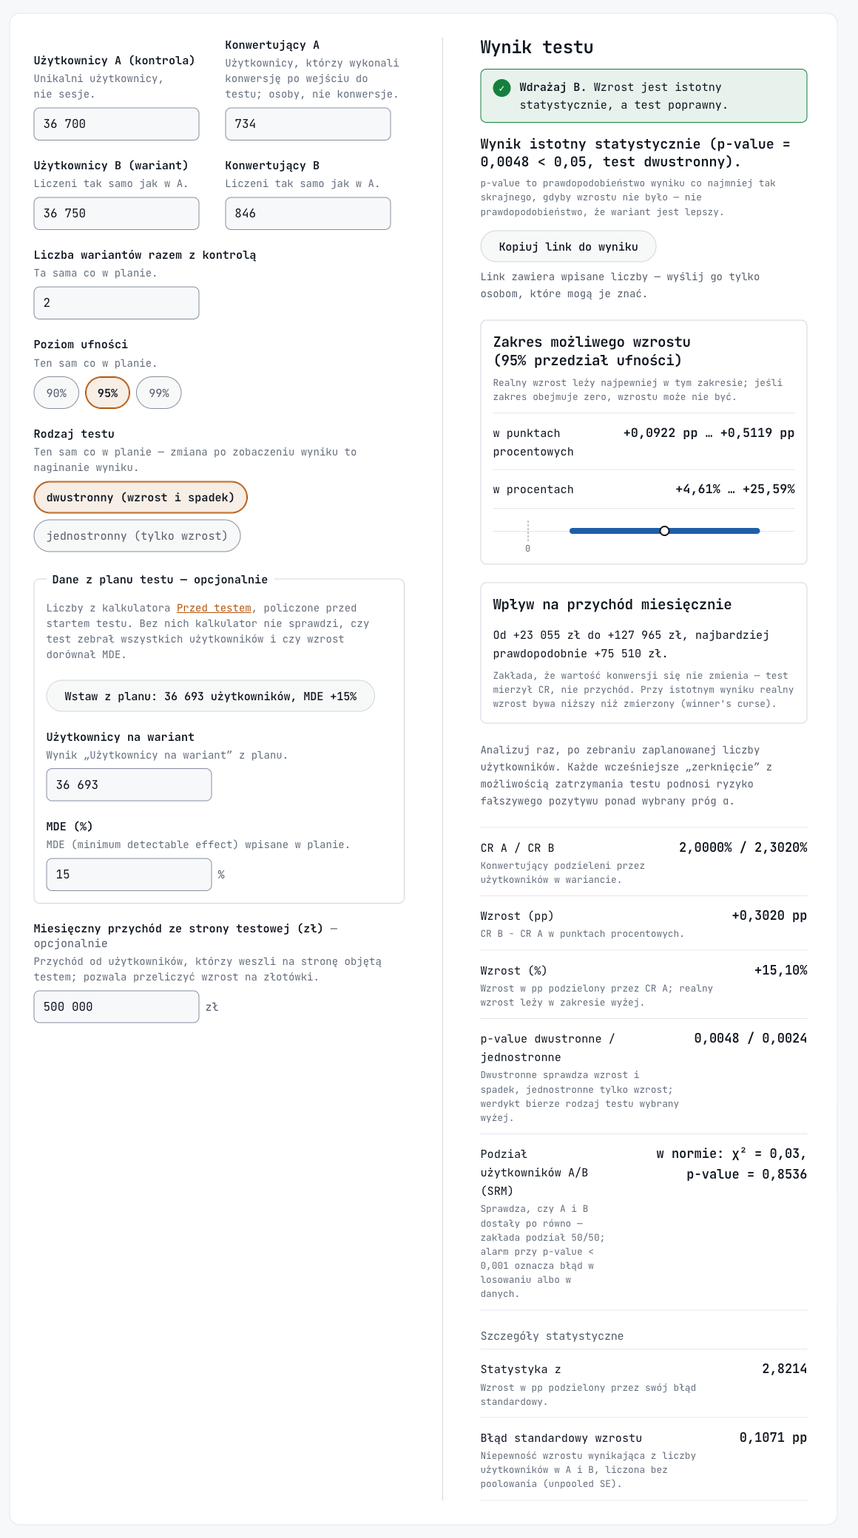
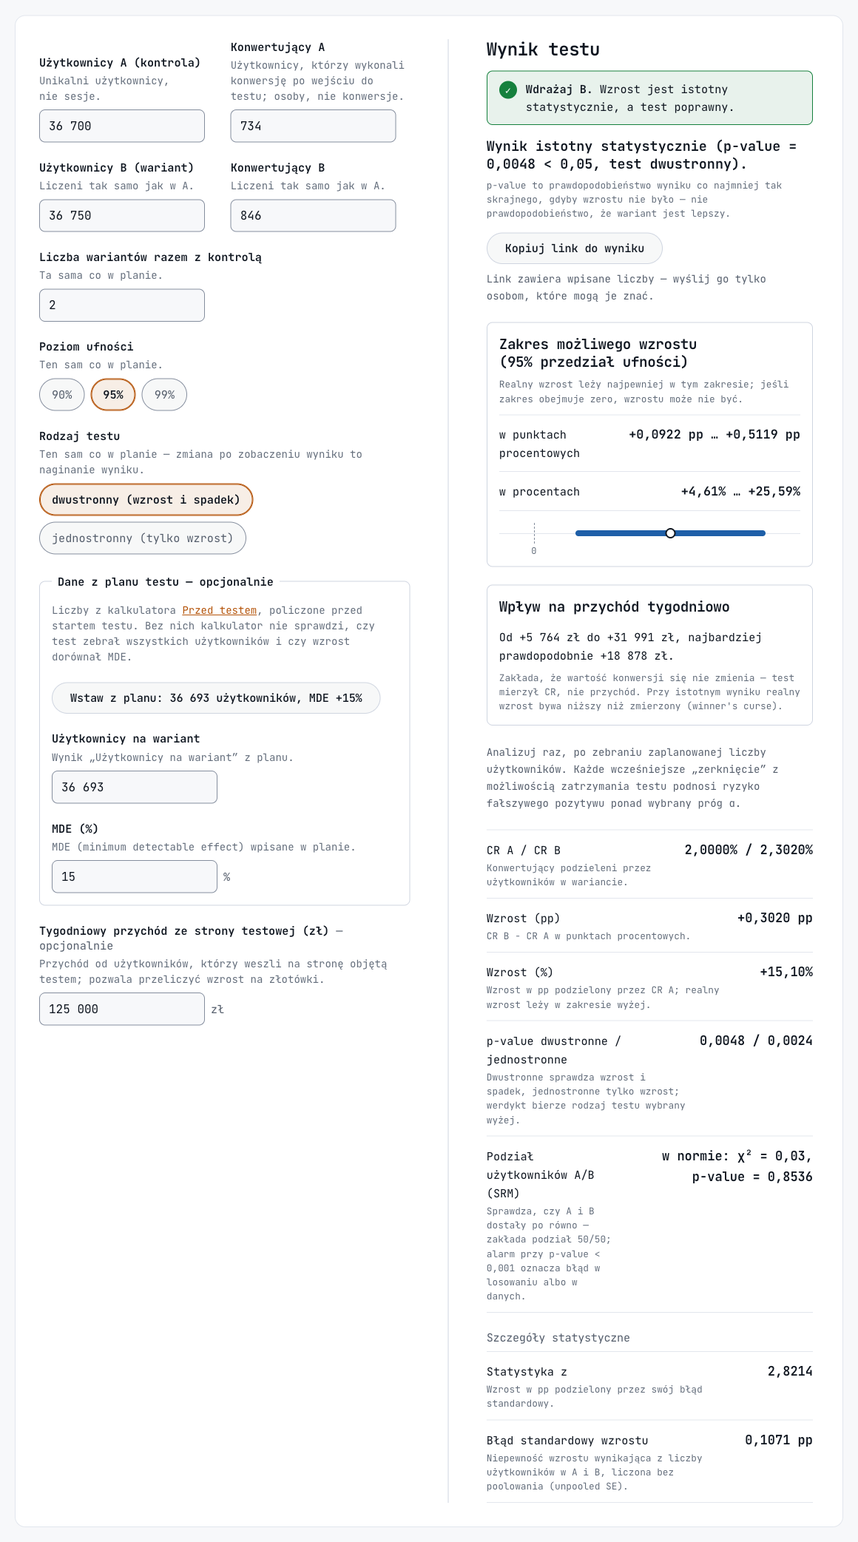
feat: przychód tygodniowy w kalkulatorach, opis słupków MDE
feat: przychód tygodniowy w obu kalkulatorach, opis słupków MDE i poprawki z przeglądu
- 03 liczy weekly_revenue: przychód z window_weeks pełnych tygodni przed testem / liczba tygodni
- README: nowe pole i kolumna „Wartość wzrostu / tydz.” w Przed testem, słupki MDE po tygodniach, kwoty tygodniowe w Po teście
- README: poprawki z niezależnego przeglądu (poziom przedziału jednostronnego, α, przykład +11%, ostrzeżenie o małych liczbach)
- nowe zrzuty obu kalkulatorów z przychodem 125 000 zł

diff --git a/README.md b/README.md
@@ -18,23 +18,24 @@ Bez zmian zapytania liczą na publicznym przykładowym eksporcie GA4 (2020-11-01
 | Plik | Parametr | Co ustawiasz |
 |---|---|---|
 | `01` | `window_start` | poniedziałek, od którego liczysz okna (zapytanie sprawdza dzień tygodnia) |
-| `01` | `max_weeks` | ile okien policzyć: 1, 2, … tygodni |
+| `01` | `max_weeks` | ile okien policzyć: 1, 2, … tygodni; okno nie może sięgać w okres testu (domyślnie 5 — przykładowy test startuje 2020-12-07) |
 | `02` | `test_start`, `test_end` | pierwszy i ostatni dzień testu, pełne tygodnie |
-| `02` | `test_id` | środkowa część `exp_variant_string` (`NARZĘDZIE-TEST-WARIANT`) |
+| `02` | `test_id` | środkowa część `exp_variant_string` (`NARZĘDZIE-TEST-WARIANT`); identyfikator testu i nazwa wariantu bez myślnika, bo zapytanie dzieli tekst po `-` |
 | `02` | `control_variant` | wariant kontrolny, zwykle `A` |
 | `02` | `demo_mode` | `TRUE` tylko na danych przykładowych (wariant z hasha `user_pseudo_id`); na własnych `FALSE` |
 | `03` | `window_end` | dzień przed startem testu |
-| `03` | `window_days` | długość okna przychodu, domyślnie 30 dni |
+| `03` | `window_weeks` | ile pełnych tygodni przed testem uśrednić, domyślnie 4 |
 
 ## Kroki
 
 | # | Kiedy | Plik | Wynik → pole kalkulatora |
 |---|---|---|---|
 | 1 | przed testem | [`sql/01_przed_testem.sql`](sql/01_przed_testem.sql) | wiersz z planowaną liczbą tygodni → Przed testem: Użytkownicy w tygodniu, Konwertujący w tygodniu |
-| 2 | przed testem | kalkulator | ustawiasz pozostałe pola ([opis](#kalkulator-przed-testem)); gdy kalkulator policzy inny czas testu — wracasz do wyniku `01` i bierzesz wiersz z tym czasem |
-| 3 | w trakcie | — | nie zaglądasz do wyniku |
-| 4 | po teście | [`sql/02_po_tescie_warianty.sql`](sql/02_po_tescie_warianty.sql) | Po teście: Użytkownicy A/B, Konwertujący A/B |
-| 5 | po teście | [`sql/03_po_tescie_przychod_miesieczny.sql`](sql/03_po_tescie_przychod_miesieczny.sql) | Po teście: Miesięczny przychód ze strony testowej |
+| 2 | przed testem | [`sql/03_przychod_tygodniowy.sql`](sql/03_przychod_tygodniowy.sql) | Przed testem: Tygodniowy przychód ze strony testowej (opcjonalnie) |
+| 3 | przed testem | kalkulator | ustawiasz pozostałe pola ([opis](#kalkulator-przed-testem)); gdy kalkulator policzy inny czas testu — wracasz do wyniku `01` i bierzesz wiersz z tym czasem |
+| 4 | w trakcie | — | nie zaglądasz do wyniku |
+| 5 | po teście | [`sql/02_po_tescie_warianty.sql`](sql/02_po_tescie_warianty.sql) | Po teście: Użytkownicy A/B, Konwertujący A/B |
+| 6 | po teście | wynik `03` z kroku 2 | Po teście: Tygodniowy przychód ze strony testowej — ta sama liczba, bo okno kończy się przed startem testu |
 
 Dlaczego okna, a nie jeden tydzień: test trwa kilka tygodni, a ludzie wracają. Każdy użytkownik liczy się w oknie raz, więc w oknie 4 tygodni unikalnych jest mniej niż 4 × tydzień — wartość „na tydzień” (okno / liczba tygodni) spada z długością okna. CR rośnie, bo użytkownik ma więcej czasu na zakup. Oba efekty działają w przeciwne strony, więc liczysz je na danych, w oknie tak długim jak test.
 
@@ -42,9 +43,9 @@ Dlaczego okna, a nie jeden tydzień: test trwa kilka tygodni, a ludzie wracają.
 
 [pmdata.pl/kalkulatory/wielkosc-proby-test-ab](https://pmdata.pl/kalkulatory/wielkosc-proby-test-ab/) odpowiada na dwa pytania: ilu użytkowników potrzebuje test i ile tygodni potrwa przy Twoim ruchu. Nazwy poniżej są dokładnie takie jak na stronie, w tej samej kolejności.
 
-Puste pole liczy się jako przykład (szara liczba w polu). Dopóki choć jedno pole jest puste, nad wynikiem stoi „Przykładowe dane — wpisz swoje, a wynik przeliczy się od razu.”
+Puste pole liczy się jako przykład (szara liczba w polu). Dopóki choć jedno pole z przykładem jest puste, nad wynikiem stoi „Przykładowe dane — wpisz swoje, a wynik przeliczy się od razu.”
 
-![Kalkulator Przed testem wypełniony danymi z tabeli pól](docs/img/przed-testem.png)
+![Kalkulator Przed testem wypełniony danymi z tabeli pól, z przychodem](docs/img/przed-testem.png)
 
 ### Pola
 
@@ -54,19 +55,20 @@ Puste pole liczy się jako przykład (szara liczba w polu). Dopóki choć jedno 
 | 2 | **Konwertujący w tygodniu** | 400 | `01` → `converters_per_week` (ten sam wiersz) | Ilu z tych użytkowników wykonało konwersję po wejściu na stronę testową. Osoby, nie zamówienia: ktoś, kto kupił dwa razy, liczy się raz. Pod polem kalkulator pokazuje CR (konwersja, *conversion rate*) = konwertujący / użytkownicy, np. „CR = 2% (400 z 20 000 użytkowników)”. CR liczony z dwóch liczb, nie wpisywany ręcznie, wymusza tę samą populację w planie i w ocenie. |
 | 3 | **Najmniejszy wzrost do wykrycia (MDE, %)** | 15 | decyzja | Patrz [MDE](#mde--najmniejszy-wzrost-do-wykrycia) niżej. Wzrost względny: +15% przy CR 2% to CR wariantu 2,3%, czyli +0,30 pp — kalkulator pokazuje to pod polem. |
 | 4 | **Liczba wariantów razem z kontrolą** | 2 | decyzja | A/B = 2, A/B/C = 3. Każde dodatkowe porównanie z kontrolą to kolejna szansa na fałszywy pozytyw, więc przy 3+ kalkulator zaostrza próg p-value (korekta Bonferroniego): α dzielone przez liczbę porównań, k − 1. Przy 3 wariantach i 95% ufności próg to 0,05 / 2 = 0,025 — i potrzeba więcej użytkowników. |
-| 5 | **Poziom ufności** | 95% | decyzja | Chroni przed fałszywym pozytywem (błąd I rodzaju, α = 1 − poziom ufności). Przy 95% w 1 teście na 20, w którym wariant nic nie zmienia, ogłosisz wzrost, którego nie ma. 99% = mniej fałszywych alarmów, ale dłuższy test; 90% = odwrotnie. |
+| 5 | **Poziom ufności** | 95% | decyzja | Chroni przed fałszywym pozytywem (błąd I rodzaju, α = 1 − poziom ufności). Przy 95% w 1 teście na 20, w którym wariant nic nie zmienia, ogłosisz różnicę, której nie ma. 99% = mniej fałszywych alarmów, ale dłuższy test; 90% = odwrotnie. |
 | 6 | **Moc testu** | 80% | decyzja | Chroni przed fałszywym negatywem (błąd II rodzaju, β = 1 − moc). Przy 80% realny wzrost równy MDE wykryjesz w 4 testach na 5, a w piątym go przeoczysz. 90% = rzadziej przeoczysz, ale test dłuższy. |
-| 7 | **Rodzaj testu** | dwustronny (wzrost i spadek) | decyzja | Dwustronny sprawdza wzrost i spadek. Jednostronny (tylko wzrost) wymaga ~21% mniej użytkowników, ale spadku nie sprawdza: wariant, który szkodzi, pokaże jako „brak efektu”. Kalkulator ostrzega o tym pod polem. Wybierasz przed testem — zmiana po zobaczeniu wyniku to naginanie wyniku. |
+| 7 | **Rodzaj testu** | dwustronny (wzrost i spadek) | decyzja | Dwustronny sprawdza wzrost i spadek. Jednostronny (tylko wzrost) wymaga ~21% mniej użytkowników, ale spadku nie sprawdza: sam test nie wykaże, że wariant szkodzi — kalkulator Po teście tylko ostrzega, gdy B wypada gorzej. Kalkulator ostrzega o tym pod polem. Wybierasz przed testem — zmiana po zobaczeniu wyniku to naginanie wyniku. |
 | 8 | **Najdłużej możesz testować (tygodnie)** | 4 | decyzja | Ile pełnych tygodni strona, ceny i kampanie mogą zostać bez zmian. Pełne tygodnie, bo w poniedziałek i w sobotę kupują inni ludzie. Powyżej ~6 tygodni wynik psują kasowanie cookies (ten sam człowiek wraca jako nowy użytkownik) i sezonowość. |
+| 9 | **Tygodniowy przychód ze strony testowej (zł)** — opcjonalnie | 125 000 | `03` → `weekly_revenue` | Przychód od użytkowników, którzy weszli na stronę objętą testem. Kalkulator przelicza na nim wykrywalny wzrost na złotówki: kolumna „Wartość wzrostu / tydz.” w tabeli i kwota w zdaniu o limicie. Bez tego pola ani kolumny, ani kwoty nie ma. Tydzień, nie miesiąc — jak pozostałe dane wejściowe; miesiąc to ok. 4,3 tygodnia. |
 
 ### MDE — najmniejszy wzrost do wykrycia
 
 MDE to skrót od *minimum detectable effect*, po polsku najmniejszy wykrywalny efekt. To najmniejszy wzrost CR, który test ma wykryć z wybraną mocą.
 
-- **MDE to próg biznesowy, nie prognoza.** Wpisujesz wzrost, poniżej którego zmiana nie jest warta wdrożenia (koszt, praca zespołu), a nie wzrost, którego się spodziewasz. Optymizm w tym polu skraca test, a potem test nie wykrywa realnego, mniejszego wzrostu.
+- **MDE to próg biznesowy, nie prognoza.** Wpisujesz najmniejszy wzrost wart czasu testu, a nie wzrost, którego się spodziewasz. Im mniejsze MDE, tym dłuższy test, a w tym czasie na stronie nie ruszy żaden inny eksperyment. Praca programistów jest już wykonana — przy MDE się jej nie liczy. Optymizm w tym polu skraca test, a potem test nie wykrywa realnego, mniejszego wzrostu.
 - **MDE decyduje o długości testu bardziej niż cokolwiek innego.** Liczba użytkowników rośnie z odwrotnością kwadratu MDE: 2× mniejsze MDE = ok. 4× więcej użytkowników. Przy CR 2%: +15% → 36 693 na wariant, +10% → 80 682, +5% → 315 206.
 - **Względne, nie w punktach procentowych.** +15% przy CR 2% to +0,30 pp (2% → 2,3%). Punkty procentowe (pp) to różnica dwóch procentów; tabela pokazuje obie jednostki.
-- **Nie wiesz, ile wpisać?** Zacznij od tabeli: pokazuje, jakie MDE wykryjesz po każdym tygodniu. Jeśli w Twoim limicie wykryjesz najwyżej +25%, a zmiana realnie może dać +5%, test niczego nie rozstrzygnie — lepiej testować na stronie z większym ruchem albo odważniejszą zmianę.
+- **Nie wiesz, ile wpisać?** Zacznij od słupków i tabeli: pokazują, jakie MDE wykryjesz po każdym tygodniu, a z wpisanym przychodem — ile ten wzrost jest wart w złotówkach na tydzień. Jeśli w Twoim limicie wykryjesz najwyżej +25%, a zmiana realnie może dać +5%, test niczego nie rozstrzygnie — lepiej testować na stronie z większym ruchem albo odważniejszą zmianę.
 
 ### Wynik: Plan testu
 
@@ -74,18 +76,19 @@ Kolejność jak na stronie.
 
 | # | Element | Co pokazuje | Jak czytać |
 |---|---|---|---|
-| 1 | **Stan planu** (ramka z ikoną) | ✓ **Plan wykonalny** · ! **Plan ryzykowny** · ✕ **Plan niewykonalny** | Wykonalny: test mieści się w limicie tygodni (gdy wystarczy mniej niż 2 tygodnie, kalkulator i tak radzi pełne 2). Ryzykowny: test potrwa ponad 6 tygodni — wynik zaburzą cookies i sezonowość; rozważ większe MDE. Niewykonalny: test potrzebuje więcej tygodni niż limit; kalkulator podaje MDE, które wykryjesz w limicie. |
-| 2 | **Zdanie wyniku** | „Przy CR 2% i MDE +15% potrzebujesz 36 693 użytkowników na wariant (73 386 łącznie). Przy 20 000 użytkowników w tygodniu test potrwa 3,67 tyg., czyli 4 tygodnie.” | Liczba użytkowników zależy od CR, MDE, ufności, mocy i rodzaju testu. Ruch w tygodniu zmienia tylko czas. |
+| 1 | **Stan planu** (ramka z ikoną) | ✓ **Plan wykonalny** · ! **Plan ryzykowny** · ✕ **Plan niewykonalny** | Wykonalny: test mieści się w limicie tygodni (gdy wystarczy mniej niż 2 tygodnie, kalkulator i tak radzi pełne 2, o ile limit na to pozwala). Ryzykowny: test potrwa ponad 6 tygodni — wynik mogą zaburzyć cookies i sezonowość; rozważ większe MDE. Niewykonalny: test potrzebuje więcej tygodni niż limit; kalkulator podaje MDE, które wykryjesz w limicie. |
+| 2 | **Zdanie wyniku** | „Przy CR 2% i MDE +15% potrzebujesz 36 693 użytkowników na wariant (73 386 łącznie). Przy 20 000 użytkowników w tygodniu test potrwa 3,67 tyg., czyli 4 tygodnie.” | Liczba użytkowników zależy od CR, MDE, ufności, mocy, rodzaju testu i liczby wariantów. Ruch w tygodniu zmienia tylko czas. |
 | 3 | **Kopiuj link do wyniku** | link z wpisanymi liczbami | Otwiera kalkulator z tymi samymi danymi. Liczby siedzą w części adresu po `#`, której przeglądarka nie wysyła na serwer — ale każdy, kto dostanie link, je zobaczy. |
-| 4 | **Zdanie o limicie** | „W ciągu 4 tygodni wykryjesz MDE od +14,35% (+0,29 pp).” | Najmniejszy wzrost, jaki wykryjesz, jeśli test potrwa tyle, ile wpisałeś w „Najdłużej możesz testować”. |
-| 5 | **Tabela MDE po tygodniach** | kolumny: **Tydzień**, **Użytkownicy na wariant**, **MDE (%)**, **MDE (pp)** | Wiersz = „gdybyś zakończył test po tym tygodniu”. Użytkownicy na wariant = ruch × tygodnie / liczba wariantów. MDE (%) i MDE (pp) = najmniejszy wzrost wykrywalny przy tej liczbie użytkowników, względnie i w punktach procentowych. Wiersz „(najdłużej)” to Twój limit. „poza zasięgiem” = przy tej liczbie użytkowników nie wykryjesz realistycznego wzrostu. Tabela ma zawsze co najmniej 8 tygodni, żeby było widać, co da dłuższy test. Ruch na tydzień jest stały, więc przy dłuższych oknach tabela trochę przeszacowuje użytkowników — dla dokładnego wiersza weź liczby z `01` dla tej długości. |
-| 6 | **Czas trwania** | „3,67 tyg. → 4 tygodnie” | Tyle tygodni zbierasz użytkowników łącznie, zaokrąglone w górę do pełnych tygodni. |
-| 7 | **Użytkownicy na wariant** | 36 693 | Tylu użytkowników musi trafić do każdego wariantu. Tę liczbę wpisujesz potem w „Po teście” jako dane z planu. |
-| 8 | **Użytkownicy łącznie** | 73 386 | Użytkownicy na wariant × liczba wariantów. Ruch w tygodniu decyduje tylko, jak szybko ich zbierzesz. |
-| 9 | **CR wariantu przy wzroście równym MDE** | 2,30% | Tyle musi osiągnąć wariant, żeby wzrost był równy MDE. |
-| 10 | **Próg p-value (α)** | 0,05 | Poniżej tej wartości wynik w „Po teście” uznasz za istotny. Przy 3+ wariantach zaostrzony, np. „0,05 / 2 = 0,025”. |
+| 4 | **Zdanie o limicie** | „W ciągu 4 tygodni wykryjesz MDE od +14,35% (+0,29 pp), czyli +17 931 zł tygodniowo.” | Najmniejszy wzrost, jaki wykryjesz, jeśli test potrwa tyle, ile wpisałeś w „Najdłużej możesz testować”. Kwota tylko z wpisanym przychodem: przychód tygodniowy × to MDE. |
+| 5 | **Jaki wzrost wykryjesz w kolejnych tygodniach** (słupki) | słupek na tydzień, nad nim MDE (%); wyróżniony słupek = limit, przygaszone = tygodnie ponad limit | Te same liczby co kolumna MDE (%) w tabeli, pokazane jako kształt: im dłuższy test, tym niższy słupek, ale każdy kolejny tydzień daje mniej. Na wąskim ekranie wartość stoi tylko nad limitem. |
+| 6 | **Tabela MDE po tygodniach** | kolumny: **Tydzień**, **Użytkownicy na wariant**, **MDE (%)**, **MDE (pp)**, z przychodem także **Wartość wzrostu / tydz.** | Wiersz = „gdybyś zakończył test po tym tygodniu”. Użytkownicy na wariant = ruch × tygodnie / liczba wariantów. MDE (%) i MDE (pp) = najmniejszy wzrost wykrywalny przy tej liczbie użytkowników, względnie i w punktach procentowych. Wartość wzrostu / tydz. = przychód tygodniowy × MDE (%): ile zł tygodniowo daje wykrywalny wzrost, jeśli się potwierdzi i średnia wartość zamówienia się nie zmieni. Wiersz „(najdłużej)” to Twój limit. „poza zasięgiem” = przy tej liczbie użytkowników nie wykryjesz realistycznego wzrostu. Tabela ma zawsze co najmniej 8 tygodni, żeby było widać, co da dłuższy test. Ruch na tydzień jest stały, więc przy dłuższych oknach tabela trochę przeszacowuje użytkowników — dla dokładnego wiersza weź liczby z `01` dla tej długości. |
+| 7 | **Czas trwania** | „3,67 tyg. → 4 tygodnie” | Tyle tygodni zbierasz użytkowników łącznie, zaokrąglone w górę do pełnych tygodni. |
+| 8 | **Użytkownicy na wariant** | 36 693 | Tylu użytkowników musi trafić do każdego wariantu. Tę liczbę wpisujesz potem w „Po teście” jako dane z planu. |
+| 9 | **Użytkownicy łącznie** | 73 386 | Użytkownicy na wariant × liczba wariantów. Ruch w tygodniu decyduje tylko, jak szybko ich zbierzesz. |
+| 10 | **CR wariantu przy wzroście równym MDE** | 2,30% | Tyle musi osiągnąć wariant, żeby wzrost był równy MDE. |
+| 11 | **Próg p-value (α)** | 0,05 | Poniżej tej wartości wynik w „Po teście” uznasz za istotny. Przy 3+ wariantach zaostrzony, np. „0,05 / 2 = 0,025”. |
 
-Plan zapisuje się w tej karcie przeglądarki (`sessionStorage`) po pierwszej zmianie pola. Strona „Po teście” w tej samej karcie odczyta go przyciskiem „Wstaw z planu”.
+Plan zapisuje się w tej karcie przeglądarki (`sessionStorage`) po pierwszej zmianie pola albo po otwarciu linku do wyniku. Strona „Po teście” w tej samej karcie odczyta go przyciskiem „Wstaw z planu”.
 
 ## Kalkulator Po teście
 
@@ -105,7 +108,7 @@ Plan zapisuje się w tej karcie przeglądarki (`sessionStorage`) po pierwszej zm
 | 6 | **Poziom ufności** | 95% | z planu | Ten sam co w planie. |
 | 7 | **Rodzaj testu** | dwustronny (wzrost i spadek) | z planu | Ten sam co w planie. Zmiana po zobaczeniu wyniku to naginanie wyniku: test jednostronny zrobi z p-value 0,09 wynik 0,045. |
 | 8 | **Dane z planu testu — opcjonalnie** | 36 693 · 15 | kalkulator Przed testem | Grupa dwóch pól: **Użytkownicy na wariant** (wynik „Użytkownicy na wariant” z planu) i **MDE (%)** (MDE wpisane w planie). Przycisk **Wstaw z planu** przenosi oba z „Przed testem”, jeśli liczyłeś plan w tej samej karcie przeglądarki; inaczej przepisz je ręcznie. Po co — niżej. |
-| 9 | **Miesięczny przychód ze strony testowej (zł)** — opcjonalnie | 500 000 | `03` → `monthly_revenue` | Przychód od użytkowników, którzy weszli na stronę objętą testem. Kalkulator przelicza na nim zakres wzrostu na złotówki. Bez tego pola blok „Wpływ na przychód miesięcznie” się nie pokazuje. |
+| 9 | **Tygodniowy przychód ze strony testowej (zł)** — opcjonalnie | 125 000 | `03` → `weekly_revenue` | Ta sama liczba co w „Przed testem”. Przychód od użytkowników, którzy weszli na stronę objętą testem. Kalkulator przelicza na nim zakres wzrostu na złotówki. Bez tego pola blok „Wpływ na przychód tygodniowo” się nie pokazuje. |
 
 ### Dane z planu testu — po co
 
@@ -115,7 +118,7 @@ Wynik testu policzysz bez nich. Bez nich werdykt zależy jednak tylko od p-value
 |---|---|---|
 | Test zatrzymany przy 70% zaplanowanych użytkowników, bo wynik akurat był istotny | „Wdrażaj B” | „Wstrzymaj decyzję” — wynik sprzed końca testu częściej daje fałszywy pozytyw |
 | Test przedłużany ponad plan (> 125% użytkowników), aż wynik wyjdzie istotny | „Wdrażaj B” | „Wstrzymaj decyzję” — ryzyko fałszywego pozytywu wyższe niż wybrane α |
-| Istotny wzrost +4%, a plan zakładał MDE +15% | „Wdrażaj B” | „Wdrażaj B, ale licz na mniej, niż zmierzono” — przy wzroście mniejszym niż MDE test miał słabą moc, a istotne wyniki takich testów zawyżają wzrost (*winner's curse*, klątwa zwycięzcy) |
+| Istotny wzrost +11%, a plan zakładał MDE +15% | „Wdrażaj B” | „Wdrażaj B, ale licz na mniej, niż zmierzono” — przy wzroście mniejszym niż MDE test miał słabą moc, a istotne wyniki takich testów zawyżają wzrost (*winner's curse*, klątwa zwycięzcy) |
 | Ręcznie wpisane liczby z planu do siebie nie pasują (rozjazd > 25%) | — | ostrzeżenie „Dane z planu wyglądają na niespójne” — pomyłka albo plan liczony z inną mocą lub innym CR |
 
 Progi: mniej niż 95% planu = za mało (każdy brakujący użytkownik to mniejsza moc), ponad 125% = za dużo (lekki nadmiar jest normalny, bo test kończy się w pełnym tygodniu). Plan wstawiony przyciskiem jest spójny z definicji — kontrola spójności dotyczy tylko liczb wpisanych ręcznie.
@@ -129,9 +132,9 @@ Kolejność jak na stronie: najpierw to, co czyta biznes, statystyka na dole.
 | 1 | **Stan wyniku** (ramka z ikoną) | decyzja o wariancie B, jeden z sześciu stanów | Tabela stanów niżej. |
 | 2 | **Werdykt** | „Wynik istotny statystycznie (p-value = 0,0048 < 0,05, test dwustronny).” albo „Wynik nieistotny statystycznie (…). Nie da się odróżnić wzrostu od przypadku.” | Porównanie p-value z progiem α. Pod spodem przypomnienie: p-value to nie prawdopodobieństwo, że wariant jest lepszy. |
 | 3 | **Kopiuj link do wyniku** | link z wpisanymi liczbami | Jak w „Przed testem”. |
-| 4 | **Zakres możliwego wzrostu (95% przedział ufności)** | **w punktach procentowych**: +0,0922 pp … +0,5119 pp · **w procentach**: +4,61% … +25,59% · pasek z zerem, zakresem i punktem | Realny wzrost leży najpewniej w tym zakresie. Zakres obejmuje zero = realnie może być wzrost, brak zmiany albo spadek. Dolna granica poniżej 1% = wzrost jest, ale może być bliski zera. Przy teście jednostronnym zakres to 90% przedział ufności, zgodny z progiem testu. |
-| 5 | **Wpływ na przychód miesięcznie** | „Od +23 055 zł do +127 965 zł, najbardziej prawdopodobnie +75 510 zł.” | Przychód miesięczny × zakres wzrostu. Zawsze przedział, nigdy jedna liczba — do budżetu bierz dolną granicę. Zakłada, że wartość konwersji się nie zmienia (test mierzył CR, nie przychód). Przy teście zepsutym (SRM) blok się nie pokazuje. |
-| 6 | **Ostrzeżenia** | lista pod wynikiem | Kolejne powody ostrożności, gdy jest ich więcej niż jeden (pierwszy stoi w stanie wyniku), oraz zastrzeżenie o *winner's curse*. |
+| 4 | **Zakres możliwego wzrostu (95% przedział ufności)** | **w punktach procentowych**: +0,0922 pp … +0,5119 pp · **w procentach**: +4,61% … +25,59% · pasek z zerem, zakresem i punktem | Realny wzrost leży najpewniej w tym zakresie. Zakres obejmuje zero = realnie może być wzrost, brak zmiany albo spadek. Dolna granica poniżej 1% = wzrost jest, ale może być bliski zera. Przy teście jednostronnym zakres to przedział na poziomie 1 − 2α (przy 95% ufności: 90%), zgodny z progiem testu. |
+| 5 | **Wpływ na przychód tygodniowo** | „Od +5 764 zł do +31 991 zł, najbardziej prawdopodobnie +18 878 zł.” | Przychód tygodniowy × zakres wzrostu. Zawsze przedział, nigdy jedna liczba — do budżetu bierz dolną granicę. Zakłada, że wartość konwersji się nie zmienia (test mierzył CR, nie przychód). Przy teście zepsutym (SRM) blok się nie pokazuje. |
+| 6 | **Ostrzeżenia** | lista pod wynikiem | Kolejne powody ostrożności, gdy jest ich więcej niż jeden (pierwszy stoi w stanie wyniku), zastrzeżenie o *winner's curse* oraz „Za mało konwersji na ten test”, gdy w którymś wariancie jest mniej niż 10 konwersji albo osób bez konwersji — test z to przybliżenie, przy tak małych liczbach p-value i zakres są niewiarygodne. |
 | 7 | **„Analizuj raz…”** | stała zasada | Analizuj raz, po zebraniu zaplanowanej liczby użytkowników. Każde wcześniejsze „zerknięcie” z możliwością zatrzymania testu podnosi ryzyko fałszywego pozytywu ponad wybrany próg α. |
 | 8 | **CR A / CR B** | 2,0000% / 2,3020% | Konwertujący podzieleni przez użytkowników w wariancie. |
 | 9 | **Wzrost (pp)** | +0,3020 pp | CR B − CR A w punktach procentowych. |
@@ -161,11 +164,12 @@ Sprawdzane po kolei — pierwszy pasujący wygrywa.
 | Użytkownicy | unikalni `user_pseudo_id` od pierwszego `view_item` w oknie (przed testem; na tydzień = okno / liczba tygodni) albo od pierwszego przypisania do wariantu (po teście). Nie sesje: sesje jednej osoby nie są niezależne | `users_per_week`, `users` |
 | Konwertujący | użytkownicy z `purchase` po pierwszym wejściu; osoby, nie zamówienia | `converters_per_week`, `converters` |
 | CR | konwertujący / użytkownicy | — (liczy kalkulator) |
-| Przychód miesięczny | przychód z `purchase` po pierwszym `view_item`, `window_days` dni przed testem; w przykładzie `purchase_revenue_in_usd`, na własnym eksporcie `purchase_revenue` | `monthly_revenue` |
+| Przychód tygodniowy | przychód z `purchase` po pierwszym `view_item` w `window_weeks` pełnych tygodniach przed testem, podzielony przez liczbę tygodni; w przykładzie `purchase_revenue_in_usd`, na własnym eksporcie `purchase_revenue` | `weekly_revenue` |
 | Wielokrotnie przypisani | użytkownicy z 2+ wariantami (wyczyszczone cookies, błąd w tagu); wykluczeni z wyniku `02` | — |
 
 ## Ograniczenia
 
 - `user_pseudo_id` to przeglądarka, nie osoba: ten sam człowiek na telefonie i laptopie to dwóch użytkowników.
 - SRM zakłada podział 50/50; przy 3+ wariantach kalkulator ocenia jedną parę z kontrolą.
+- Ocena to test z (przybliżenie normalne): przy kilku konwersjach w wariancie wynik jest przybliżony, a dolna granica zakresu względnego jest ucinana na −100%.
 - Wariant w `02` pochodzi z `experience_impression` / `exp_variant_string` ([integracja GA4](https://developers.google.com/analytics/devguides/collection/ga4/integration)); inne narzędzie testowe = inny warunek w CTE `assignments`.
